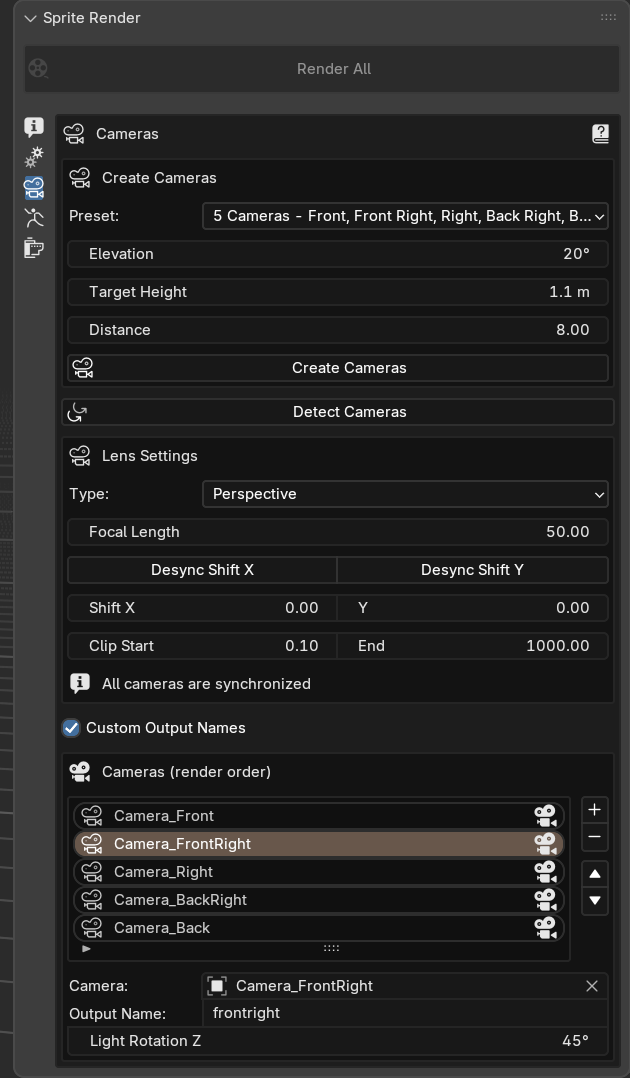
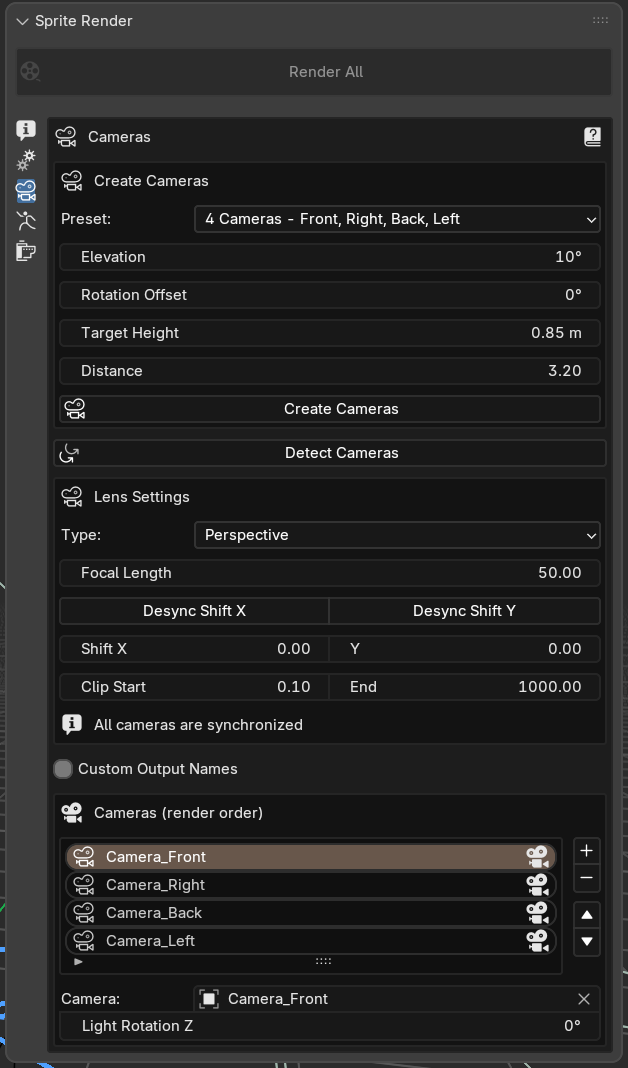
Guides genericos, prints Cameras com Rotation Offset, preview ao vivo

diff --git a/docs/pt/Guides.md b/docs/pt/Guides.md
@@ -51,9 +51,14 @@ Conferido no teste: com a luz presa, o pivô gira de câmera em câmera (`0°, 9
 
 ### 2. Câmeras (aba **Cameras**)
 
-1. Na caixa **Create Cameras** escolha `Preset` = `4 Cameras - Front, Right, Back, Left`.
-2. Defina `Elevation` = `10°`, `Target Height` = `0.85`, `Distance` = `3.2`.
-3. Clique em **Create Cameras**. Quatro câmeras (`Camera_Front`, `Camera_Right`, `Camera_Back`, `Camera_Left`) aparecem na cena e na lista **Cameras (render order)**.
+1. Na caixa **Create Cameras** escolha o `Preset` que combina com o seu jogo (quantas direções você precisa). O teste usa `4 Cameras - Front, Right, Back, Left`.
+2. Ajuste `Elevation`, `Rotation Offset`, `Target Height` e `Distance` conforme o seu personagem e o seu estilo de câmera. O teste usa `10°`, `0°`, `0.85` e `3.2`.
+   - `Elevation`: inclinação da câmera (`0°` = na altura do personagem; `30°`–`45°` = visão 3/4 ou isométrica).
+   - `Rotation Offset`: gira o anel de câmeras em torno do pivô. Se o seu personagem está rotacionado, use este valor para que a câmera `Front` olhe para a frente dele.
+   - `Target Height`: altura do ponto para onde as câmeras olham (mire no meio do corpo do personagem).
+   - `Distance`: distância das câmeras até o pivô.
+3. Clique em **Create Cameras**. As câmeras do preset (no teste, `Camera_Front`, `Camera_Right`, `Camera_Back`, `Camera_Left`) aparecem na cena e na lista **Cameras (render order)**.
+4. Depois de criadas, mexer em `Elevation`, `Rotation Offset`, `Target Height` e `Distance` **move as câmeras em tempo real**: ajuste olhando pelo viewport, sem precisar criar de novo.
 
 As câmeras olham para o Light Pivot (elevado por `Target Height`); sem pivô elas olhariam para a origem do mundo. Cada câmera também recebe seu `Light Rotation` (`0°, 90°, 180°, 270°` aqui), que é o que gira o pivô. Os nomes das câmeras são **direções do mundo** (front = a câmera do lado `-Y`), não a direção para onde o personagem olha.
 
@@ -64,7 +69,8 @@ As câmeras olham para o Light Pivot (elevado por `Target Height`); sem pivô el
 1. `Animation Mode` = `Use Actions` (padrão).
 2. `Armature` = o armature do seu personagem.
 3. Clique em **Detect Actions**. Todas as Actions do arquivo são listadas com seu intervalo de frames. Poses estáticas (1–2 frames, como a T-pose de um FBX) entram na lista **desmarcadas**.
-4. Deixe só `Running` marcada (frames `1` a `22` no teste). Use **Disable All** e depois marque as que quiser.
+4. Marque só as animações que você quer renderizar (no teste, `Running`, frames `1` a `22`). Use **Disable All** e depois marque as que quiser. Use os nomes das Actions do **seu** modelo.
+5. Opcional: ative **Preview Action** para ver a animação no viewport. Com o preview ligado, **selecionar outra animação na lista** troca o preview na hora, e editar o `Start Frame` / `End Frame` da animação selecionada atualiza a timeline instantaneamente.
 
 ![Aba Animations](/_static/images/SRT_AnimationTab.png)
 

diff --git a/docs/en/Guides.md b/docs/en/Guides.md
@@ -51,9 +51,14 @@ Checked in the test: with the light attached, the pivot turns from camera to cam
 
 ### 2. Cameras (**Cameras** tab)
 
-1. In the **Create Cameras** box choose `Preset` = `4 Cameras - Front, Right, Back, Left`.
-2. Set `Elevation` = `10°`, `Target Height` = `0.85`, `Distance` = `3.2`.
-3. Click **Create Cameras**. Four cameras (`Camera_Front`, `Camera_Right`, `Camera_Back`, `Camera_Left`) appear in the scene and in the list **Cameras (render order)**.
+1. In the **Create Cameras** box choose the `Preset` that fits your game (how many directions you need). The test uses `4 Cameras - Front, Right, Back, Left`.
+2. Adjust `Elevation`, `Rotation Offset`, `Target Height` and `Distance` for your character and your camera style. The test uses `10°`, `0°`, `0.85` and `3.2`.
+   - `Elevation`: camera tilt (`0°` = level with the character; `30°`–`45°` = 3/4 or isometric view).
+   - `Rotation Offset`: turns the camera ring around the pivot. If your character is rotated, use this value so the `Front` camera looks at the character's front.
+   - `Target Height`: height of the point the cameras look at (aim at the middle of the character's body).
+   - `Distance`: distance from the cameras to the pivot.
+3. Click **Create Cameras**. The preset's cameras (in the test, `Camera_Front`, `Camera_Right`, `Camera_Back`, `Camera_Left`) appear in the scene and in the list **Cameras (render order)**.
+4. Once created, changing `Elevation`, `Rotation Offset`, `Target Height` and `Distance` **moves the cameras in real time**: adjust while looking at the viewport, no need to create them again.
 
 The cameras look at the Light Pivot (raised by `Target Height`); without a pivot they would look at the world origin. Each camera also gets its `Light Rotation` (`0°, 90°, 180°, 270°` here), which is what turns the pivot. The camera names are **world directions** (front = the camera on the `-Y` side), not the direction your character faces.
 
@@ -64,7 +69,8 @@ The cameras look at the Light Pivot (raised by `Target Height`); without a pivot
 1. `Animation Mode` = `Use Actions` (default).
 2. `Armature` = your character's armature.
 3. Click **Detect Actions**. Every Action of the file is listed with its frame range. Static poses (1–2 frames, such as the T-pose of an FBX) are listed **disabled**.
-4. Keep only `Running` ticked (frames `1` to `22` in the test). Use **Disable All**, then tick the ones you want.
+4. Tick only the animations you want to render (in the test, `Running`, frames `1` to `22`). Use **Disable All**, then tick the ones you want. Use the Action names of **your** model.
+5. Optional: turn on **Preview Action** to see the animation in the viewport. With the preview on, **selecting another animation in the list** switches the preview at once, and editing the selected animation's `Start Frame` / `End Frame` updates the timeline instantly.
 
 ![Animations tab](/_static/images/SRT_AnimationTab.png)
 

diff --git a/docs/pt/Animations.md b/docs/pt/Animations.md
@@ -16,7 +16,9 @@ Escolha o modo em `Animation Mode`:
 - **Static Render** (STATIC): renderiza apenas o frame atual.
 - **Frame Ranges** (FRAME_RANGES): renderiza intervalos de frames específicos sem rig ou animação.
 
-**Trocar o modo, ou selecionar um item de uma lista, nunca altera a sua cena.** A cena só é tocada pelos botões de **Preview** e pelo Render All, e os dois a devolvem ao estado original depois (veja [Render](Render.md)).
+**Trocar o modo, ou selecionar um item de uma lista, não altera a sua cena** enquanto nenhum preview está ativo. A cena só é tocada pelos botões de **Preview** e pelo Render All, e os dois a devolvem ao estado original depois (veja [Render](Render.md)).
+
+**Preview ao vivo.** Com um preview ativo, selecionar outra Action / NLA Strip na lista troca o preview na hora, e editar o `Start Frame` / `End Frame` do item selecionado atualiza o início / fim da timeline instantaneamente (o frame atual é mantido dentro do novo intervalo).
 
 ---
 

diff --git a/docs/en/Animations.md b/docs/en/Animations.md
@@ -16,7 +16,9 @@ Choose the mode with `Animation Mode`:
 - **Static Render** (STATIC): render only the current frame.
 - **Frame Ranges** (FRAME_RANGES): render specific frame ranges without rig or animation.
 
-**Changing the mode, or selecting an item in a list, never changes your scene.** The scene is only touched by the **Preview** buttons and by Render All, and both put it back afterwards (see [Render](Render.md)).
+**Changing the mode, or selecting an item in a list, does not change your scene** while no preview is active. The scene is only touched by the **Preview** buttons and by Render All, and both put it back afterwards (see [Render](Render.md)).
+
+**Live preview.** While a preview is active, selecting another Action / NLA Strip in the list switches the preview at once, and editing the selected item's `Start Frame` / `End Frame` updates the timeline start / end instantly (the current frame is kept inside the new range).
 
 ---
 
